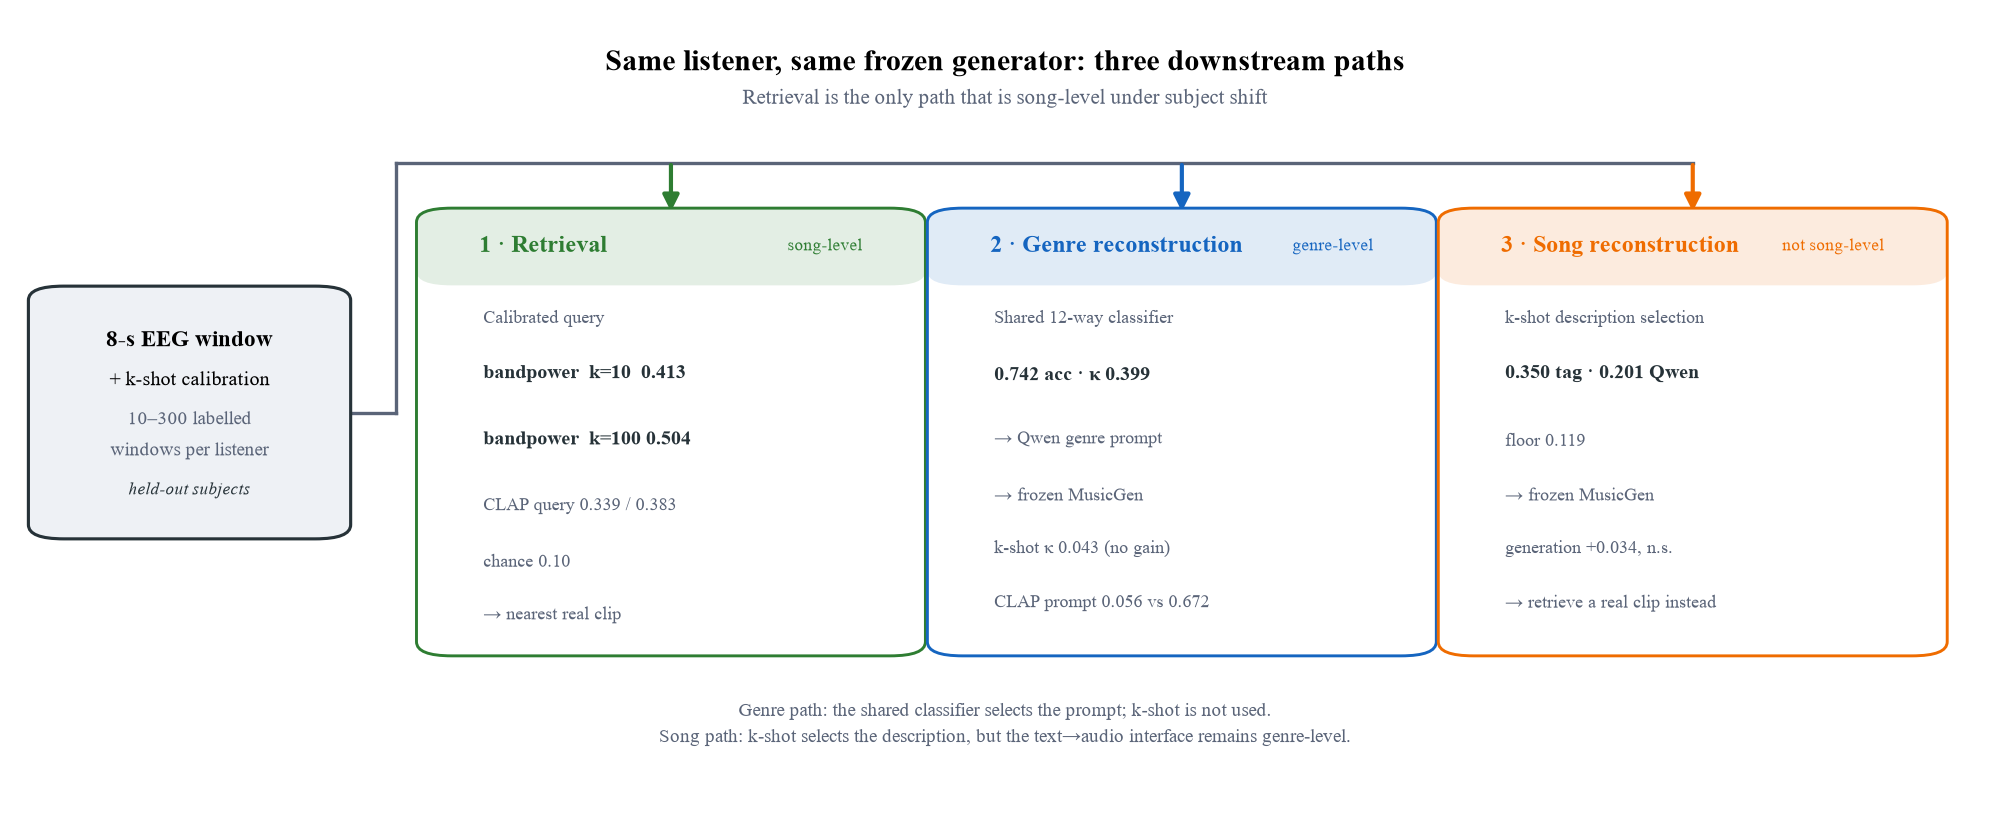
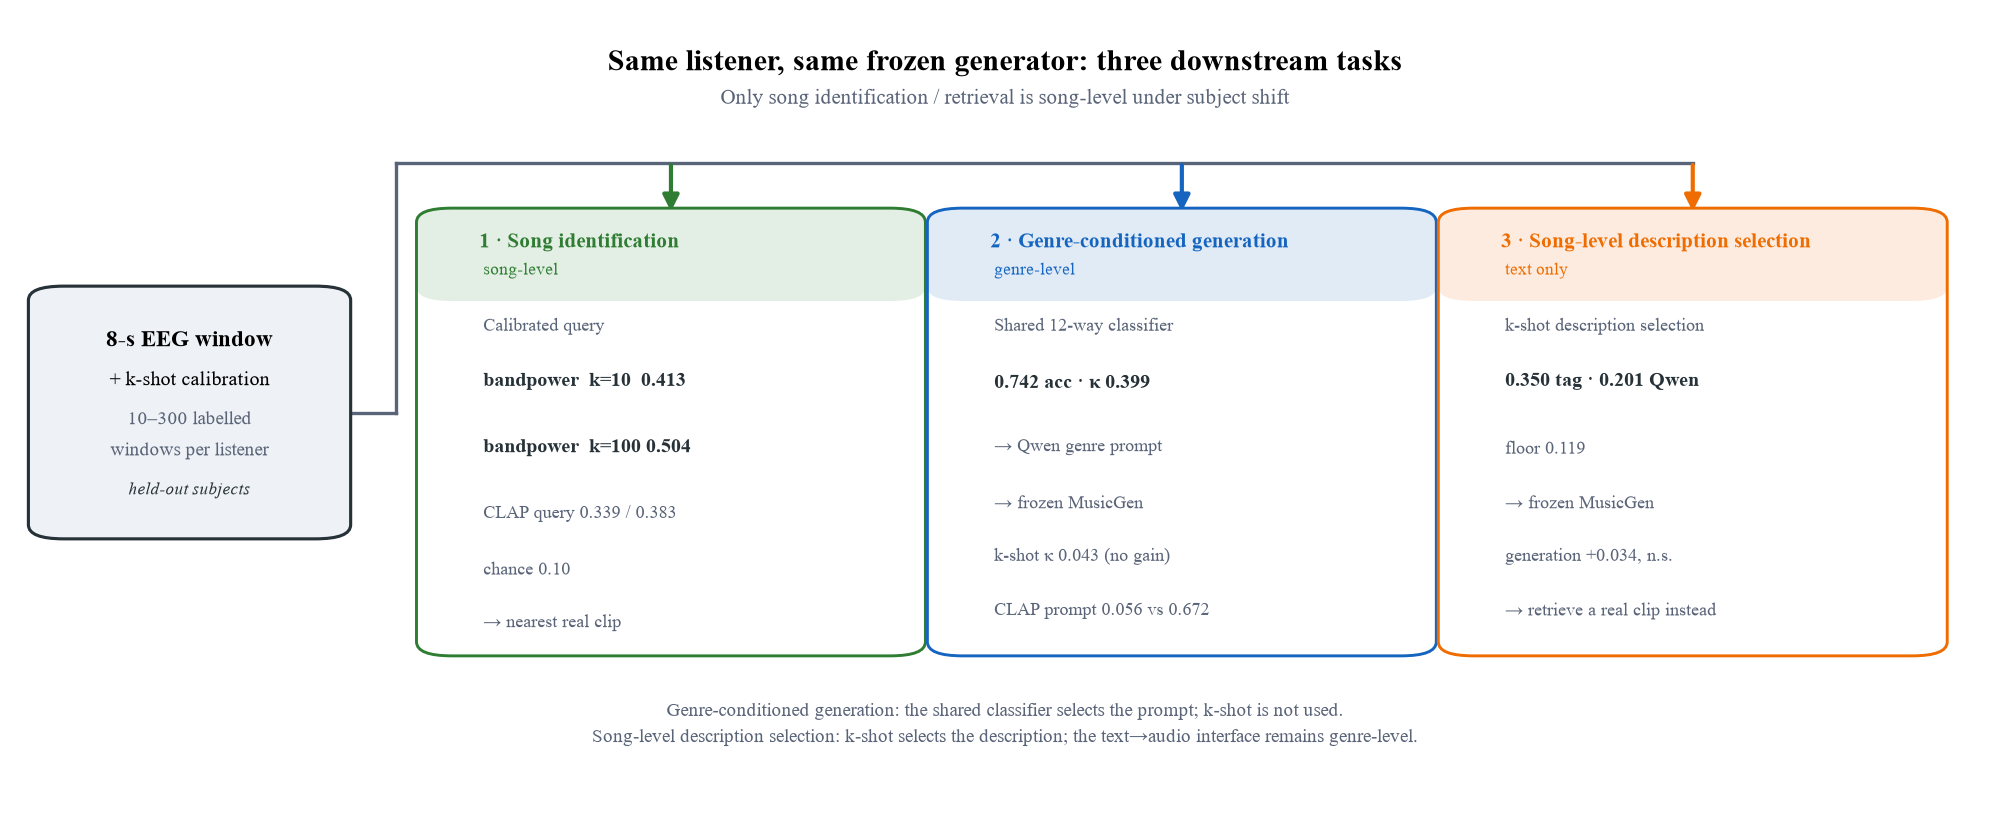
web: rename downstream tasks by what they actually measure
- song identification / retrieval
- genre-conditioned generation
- song-level description selection (text only, not audio reconstruction)

diff --git a/index.html b/index.html
@@ -106,9 +106,9 @@
       <a href="#method">How it works</a>
       <a href="#listener">The listener</a>
       <a href="#kshot">k-shot</a>
-      <a href="#part1">Part 1 · retrieve</a>
-      <a href="#part2">Part 2 · generate</a>
-      <a href="#paths">Three paths</a>
+      <a href="#part1">Part 1 · identify</a>
+      <a href="#part2">Part 2 · genre generation</a>
+      <a href="#paths">Three tasks</a>
       <a href="#heard">Heard vs generated</a>
       <a href="#listen">Listen</a>
       <a href="#limits">Limitations</a>
@@ -247,12 +247,12 @@
   </section>
 
   <section id="part1">
-    <h2>Part 1 — retrieve the song the subject heard</h2>
+    <h2>Part 1 — identify the heard song</h2>
     <p class="lead">Song-level nearest-centroid retrieval after the A→L bridge: 36,036 EEG queries over 14 songs
       against a 1,103-window audio corpus (chance 7.1%). <b>This headline is segment-held-out</b> (subjects
       remain in training); on truly unseen subjects the calibrated query retrieves a real clip at
       <b>.413 / .504</b> (bandpower k=10 / 100) — the honest cross-subject number used in
-      <a href="#paths">Three paths</a>.</p>
+      <a href="#paths">Three tasks</a>.</p>
 
     <div class="figcard">
       <span class="figno">Fig 11 · 14-way song confusion</span>
@@ -262,7 +262,7 @@
         <b>84.9%</b> song-level over 36,036 queries (chance 7.1%; smoothed 88.4%). On truly unseen subjects,
         the zero-shot retrain is at <b>0.106 ± 0.020</b> (5 folds, 14-way; chance 0.071); with per-subject
         calibration the query retrieves real clips at <b>.413 / .504</b> (bandpower k=10 / 100) — see
-        <a href="#listener">The listener</a> and <a href="#paths">Three paths</a>.
+        <a href="#listener">The listener</a> and <a href="#paths">Three tasks</a>.
         T0–T9 are NMED-T songs, H0–H3 NMED-H.</figcaption>
     </div>
 
@@ -275,7 +275,7 @@
   </section>
 
   <section id="part2">
-    <h2>Part 2 — generate from a frozen prompt library</h2>
+    <h2>Part 2 — genre-conditioned generation</h2>
     <p class="lead">Three measurements decide the design: <b>coverage</b> (can a convex mixture of the library
       reach real windows), <b>tolerance</b> (is interpolation safe), and <b>which prompt</b> the EEG actually
       selects. The generator stays frozen because that keeps every output inside the model's own distribution.</p>
@@ -342,44 +342,44 @@
   </section>
 
   <section id="paths">
-    <h2>Three downstream paths</h2>
-    <p class="lead">Same listener, same frozen generator, three different outputs. Only the first closes
-      the song-level gap under subject shift; the second is genre-level by design; the third has a working
-      selector but no song-level audio.</p>
+    <h2>Three downstream tasks</h2>
+    <p class="lead">Same listener, same frozen generator, three different tasks. Only song identification
+      is song-level under subject shift; the second is genre-conditioned generation; the third is a text-level
+      description selector, not audio reconstruction.</p>
 
     <div class="figcard">
-      <span class="figno">Fig 18 · retrieval / genre reconstruction / song reconstruction</span>
-      <figure><img src="assets/fig/fig18_three_paths.png" alt="three downstream paths: retrieval, genre reconstruction, song reconstruction"></figure>
-      <figcaption><b>Retrieval</b> returns a real clip (bandpower k=10 .413, k=100 .504; through the CLAP
-        query .339/.383; chance .10). <b>Genre-level reconstruction</b> uses the shared 12-way classifier
-        (.742 acc, κ .399; pooled .748/.405) and a Qwen genre prompt; k-shot does not help (κ ≤ .045) and
-        CLAP prompt matching is below majority (.056 vs .672). <b>Song-level reconstruction</b> uses the
-        k-shot description selector (.350 tag / .201 Qwen; floor .119), but the generated audio is still
-        genre-level: the true-song prompt does not beat a same-genre wrong prompt
-        (+.034, t = 1.02, n.s.).</figcaption>
+      <span class="figno">Fig 18 · three downstream tasks</span>
+      <figure><img src="assets/fig/fig18_three_paths.png" alt="three downstream tasks: song identification, genre-conditioned generation, song-level description selection"></figure>
+      <figcaption><b>Song identification / retrieval</b> returns a real clip (bandpower k=10 .413, k=100 .504;
+        through the CLAP query .339/.383; chance .10). <b>Genre-conditioned generation</b> uses the shared
+        12-way classifier (.742 acc, κ .399; pooled .748/.405) and a Qwen genre prompt; k-shot does not help
+        (κ ≤ .045) and CLAP prompt matching is below majority (.056 vs .672).
+        <b>Song-level description selection</b> uses the k-shot selector (.350 tag / .201 Qwen; floor .119),
+        but the generated audio is still genre-level: the true-song prompt does not beat a same-genre wrong
+        prompt (+.034, t = 1.02, n.s.). It is not audio reconstruction.</figcaption>
     </div>
 
     <table class="restable">
-      <thead><tr><th>path</th><th>selector</th><th>output</th><th>evidence</th><th>song-level?</th></tr></thead>
+      <thead><tr><th>task</th><th>selector</th><th>output</th><th>evidence</th><th>song-level audio?</th></tr></thead>
       <tbody>
-        <tr><td><b>Retrieval</b></td><td>calibrated query</td><td>nearest real clip</td>
+        <tr><td><b>Song identification / retrieval</b></td><td>calibrated query</td><td>nearest real clip</td>
           <td>.413 / .504 (bandpower k=10 / 100); .339 / .383 (CLAP)</td>
           <td class="hi">yes</td></tr>
-        <tr><td><b>Genre-level reconstruction</b></td><td>shared 12-way classifier</td>
+        <tr><td><b>Genre-conditioned generation</b></td><td>shared 12-way classifier</td>
           <td>Qwen genre prompt → frozen MusicGen</td>
           <td>.742 acc / κ .399; k-shot κ ≤ .045; CLAP prompt .056 vs .672</td>
           <td>genre only</td></tr>
-        <tr><td><b>Song-level reconstruction</b></td><td>k-shot description selection</td>
+        <tr><td><b>Song-level description selection</b></td><td>k-shot description selection</td>
           <td>description → frozen MusicGen</td>
           <td>.350 tag / .201 Qwen; oracle − same-genre +.034 (t = 1.02, n.s.)</td>
-          <td class="lo">no</td></tr>
+          <td class="lo">text only</td></tr>
       </tbody>
     </table>
 
     <div class="note"><b>Two retrieval protocols, not one.</b> The 84.9% / 88.2% in Part 1 are
       segment-held-out (subjects remain in training). The .413/.504 numbers here are subject-held-out with
-      per-subject calibration — the honest cross-subject numbers, and the ones used in the three-path
-      comparison. Only retrieval closes the song-level gap under subject shift.</div>
+      per-subject calibration — the honest cross-subject numbers, and the ones used in the three-task
+      comparison. Only song identification / retrieval closes the song-level gap under subject shift.</div>
   </section>
 
   <section id="heard">
@@ -425,10 +425,12 @@
       <p>The stimuli are excerpts of commercially released songs, so only spectrograms are shown and raw EEG is
         not published. Every playable file is generated.</p></details>
     <details><summary>Is the generated clip a reconstruction of what was heard?</summary>
-      <p>No — genre-level only (+0.103, and −0.005 within the same genre). Song identity is Part 1's job:
+      <p>No — this is <b>genre-conditioned generation</b>, not reconstruction. The generated audio is genre-level
+        only (+0.103, and −0.005 within the same genre). Song identity is the job of song identification:
         84.9% song-level retrieval (held-out segments; subjects remain in training). On truly unseen subjects
         the calibrated query retrieves real clips at <b>.413 / .504</b> (bandpower k=10 / 100; chance .10),
-        and k-shot song-description selection reaches <b>.350</b>; the generation arm remains genre-level.</p></details>
+        and k-shot song-description selection reaches <b>.350</b>; genre-conditioned generation remains
+        genre-level.</p></details>
     <details><summary>Why keep the generator frozen?</summary>
       <p>Fine-tuning scored 7,404 vs 1,389 on distributional texture, and freezing keeps every output inside the
         generator's own distribution by construction.</p></details>
@@ -444,7 +446,7 @@
       <li>The five-fold subject-held-out retrain and the block-split control are single-seed; NMED-T has only 20 crossed subjects.</li>
       <li>The fiber theory assumes a shared codebook and an isometric/low-rank transform; LaBraM-200 is only partially recoverable (0.391 oracle).</li>
       <li>K-shot calibrates song-level description selection (.350), but <b>not</b> the 12-way genre task (κ .045 vs shared .40); calibrated generation remains genre-level.</li>
-      <li>Song-level reconstruction is not solved: the generated audio is genre-level; retrieval of real clips (.38–.50) is the honest song-level path.</li>
+      <li>Song-level audio generation is not solved: the generated audio is genre-level; the working song-level tasks are description selection (.350) and retrieval of real clips (.38–.50).</li>
       <li>Free-text Qwen song captions are coherent but generic (.201 vs .350 tags); no title/artist leakage, but the text→audio interface still collapses song identity to genre.</li>
       <li>The FMA-pool margin measures pull toward this corpus, not song identity (Bollywood stimuli vs a mostly-Western pool).</li>
       <li>Off-manifold interpolation makes the mixture effectively near-single-prompt, or waveform blending.</li>

diff --git a/code/figures/make_fig_three_paths.py b/code/figures/make_fig_three_paths.py
@@ -1,7 +1,8 @@
 """Fig 18: three downstream paths under subject shift.
 
-Retrieval (song-level), genre-level reconstruction (shared classifier + Qwen genre
-prompt), and song-level reconstruction (k-shot description + frozen generator).
+Song identification/retrieval (song-level), genre-conditioned generation (shared
+classifier + Qwen genre prompt), and song-level description selection (k-shot text +
+frozen generator; not audio reconstruction).
 Numbers come from results/public/fig_three_paths.json.
 
 Run: python code/figures/make_fig_three_paths.py
@@ -27,14 +28,14 @@ def card(ax, x, y, w, h, title, color, lines, tag):
     box = FancyBboxPatch((x, y), w, h, boxstyle="round,pad=0.012,rounding_size=0.018",
                          linewidth=1.4, edgecolor=color, facecolor="white", zorder=2)
     ax.add_patch(box)
-    ax.add_patch(FancyBboxPatch((x, y + h - 0.075), w, 0.075,
+    ax.add_patch(FancyBboxPatch((x, y + h - 0.095), w, 0.095,
                                 boxstyle="round,pad=0.012,rounding_size=0.018",
                                 linewidth=0, facecolor=color, alpha=0.13, zorder=3))
-    ax.text(x + 0.02, y + h - 0.037, title, fontsize=11.5, fontweight="bold", color=color,
+    ax.text(x + 0.02, y + h - 0.032, title, fontsize=10.2, fontweight="bold", color=color,
             va="center", zorder=4)
-    ax.text(x + w - 0.02, y + h - 0.037, tag, fontsize=8.3, color=color, ha="right",
+    ax.text(x + 0.022, y + h - 0.068, tag, fontsize=8.2, color=color,
             va="center", zorder=4)
-    yy = y + h - 0.115
+    yy = y + h - 0.125
     for i, (txt, bold) in enumerate(lines):
         ax.text(x + 0.022, yy, txt, fontsize=9.4 if bold else 8.8,
                 fontweight="bold" if bold else "normal",
@@ -47,9 +48,9 @@ def main():
     fig, ax = plt.subplots(figsize=(13.4, 5.5))
     ax.set_xlim(0, 1); ax.set_ylim(0, 1); ax.axis("off")
 
-    ax.text(0.5, 0.965, "Same listener, same frozen generator: three downstream paths",
+    ax.text(0.5, 0.965, "Same listener, same frozen generator: three downstream tasks",
             ha="center", va="top", fontsize=14.5, fontweight="bold")
-    ax.text(0.5, 0.915, "Retrieval is the only path that is song-level under subject shift",
+    ax.text(0.5, 0.915, "Only song identification / retrieval is song-level under subject shift",
             ha="center", va="top", fontsize=10, color=MUT)
 
     # input
@@ -62,7 +63,7 @@ def main():
     ax.text(0.085, 0.445, "windows per listener", ha="center", fontsize=9.0, color=MUT)
     ax.text(0.085, 0.395, "held-out subjects", ha="center", fontsize=8.4, style="italic", color=PALETTE["ink"])
 
-    centers = [(0.33, PALETTE["green"], "1 · Retrieval", "song-level", [
+    centers = [(0.33, PALETTE["green"], "1 · Song identification", "song-level", [
         ("Calibrated query", False),
         (f"bandpower  k=10  {D['retrieval']['bp_10']:.3f}", True),
         (f"bandpower  k=100 {D['retrieval']['bp_100']:.3f}", True),
@@ -70,7 +71,7 @@ def main():
         (f"chance {D['retrieval_chance']:.2f}", False),
         ("→ nearest real clip", False),
     ]),
-    (0.59, PALETTE["blue"], "2 · Genre reconstruction", "genre-level", [
+    (0.59, PALETTE["blue"], "2 · Genre-conditioned generation", "genre-level", [
         ("Shared 12-way classifier", False),
         (f"{D['genre']['mainline_acc']:.3f} acc · κ {D['genre']['mainline_kappa']:.3f}", True),
         ("→ Qwen genre prompt", False),
@@ -78,7 +79,7 @@ def main():
         (f"k-shot κ {D['genre']['kshot_kappa']:.3f} (no gain)", False),
         (f"CLAP prompt {D['genre']['clap_prompt_acc']:.3f} vs {D['genre']['clap_majority']:.3f}", False),
     ]),
-    (0.85, PALETTE["orange"], "3 · Song reconstruction", "not song-level", [
+    (0.85, PALETTE["orange"], "3 · Song-level description selection", "text only", [
         ("k-shot description selection", False),
         (f"{D['song']['tag_k100']:.3f} tag · {D['song']['qwen_k100']:.3f} Qwen", True),
         (f"floor {D['song']['floor']:.3f}", False),
@@ -98,8 +99,8 @@ def main():
                                      color=color, shrinkA=1, shrinkB=1, zorder=1))
 
     ax.text(0.5, 0.10,
-            "Genre path: the shared classifier selects the prompt; k-shot is not used.\n"
-            "Song path: k-shot selects the description, but the text→audio interface remains genre-level.",
+            "Genre-conditioned generation: the shared classifier selects the prompt; k-shot is not used.\n"
+            "Song-level description selection: k-shot selects the description; the text→audio interface remains genre-level.",
             ha="center", va="center", fontsize=9.2, color="#5a6478", linespacing=1.5)
     fig.tight_layout()
     save(fig, "fig18_three_paths.png")
